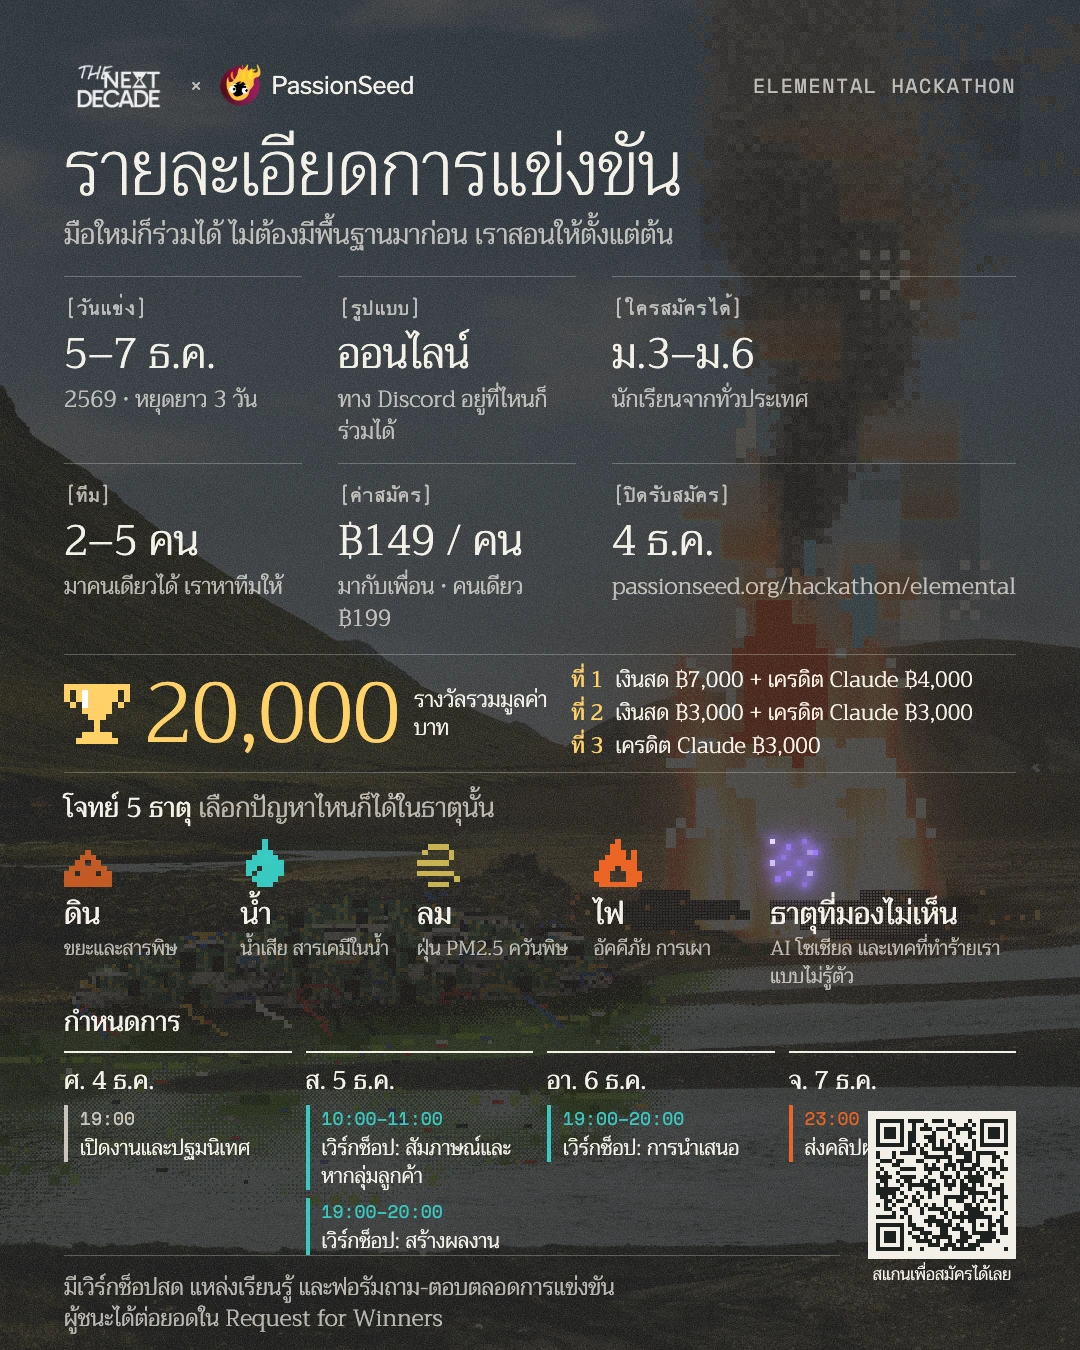
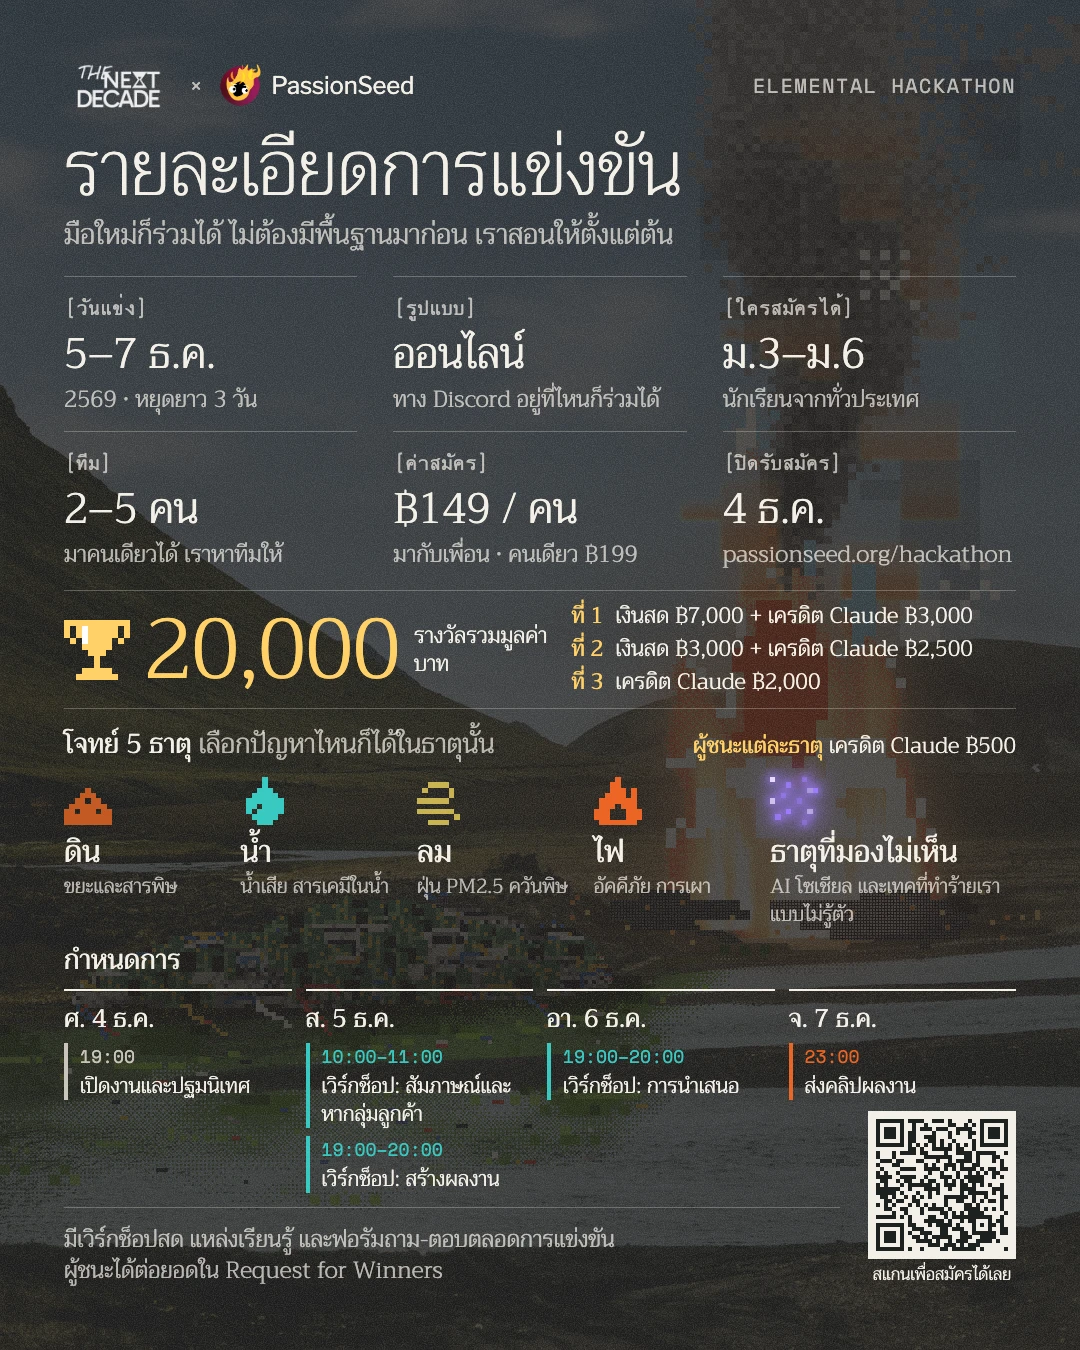
Elemental prizes: less Claude credit for 1st to 3rd, ฿500 for each element's winner
Angpao, 2026-11-24: the Claude credit is 3,000 / 2,500 / 2,000, and the
winner of each track gets 500 of Claude credit. A track is read as one of
the five elements, so the total stays 20,000. Slide 2 and the CSII deck
follow. Slide 2 prints the short link again: the permanent one widened its
column and pushed the schedule under the QR code.

Changed region(s): [[0.0611, 0.2178, 0.9472, 0.9956], [0.0611, 0.7467, 0.2444, 0.8711]]

diff --git a/components/hackathon/poster/elemental/info/ElementalInfoPoster.tsx b/components/hackathon/poster/elemental/info/ElementalInfoPoster.tsx
@@ -114,6 +114,13 @@ function Tag({ children }: { children: ReactNode }) {
   return <p style={{ margin: 0, fontFamily: EL_FONT.mono, fontSize: 20, color: EL.creamSoft }}>[{children}]</p>;
 }
 
+/**
+ * The link as printed on the slide: the short one, which redirects to the
+ * permanent link. The permanent link is too long for its column: it widens
+ * the column, the other facts wrap, and the schedule runs under the QR code.
+ */
+const SHORT_URL = ELEMENTAL.url.replace(/\/elemental$/, "");
+
 /** One fact: a tag, the big value, one quiet line under it. */
 function Fact({ tag, big, below }: { tag: string; big: ReactNode; below: ReactNode }) {
   return (
@@ -176,7 +183,7 @@ export function ElementalInfoPoster({ id = "elemental-info" }: { id?: string }) 
           <Fact tag="ใครสมัครได้" big={ELEMENTAL.gradesTh} below="นักเรียนจากทั่วประเทศ" />
           <Fact tag="ทีม" big={`${ELEMENTAL.teamMin}–${ELEMENTAL.teamMax} คน`} below="มาคนเดียวได้ เราหาทีมให้" />
           <Fact tag="ค่าสมัคร" big={`฿${ELEMENTAL.groupPriceBaht} / คน`} below={`มากับเพื่อน · คนเดียว ฿${ELEMENTAL.priceBaht}`} />
-          <Fact tag="ปิดรับสมัคร" big={formatThaiDate(ELEMENTAL.registrationClosesOn, false)} below={ELEMENTAL.url} />
+          <Fact tag="ปิดรับสมัคร" big={formatThaiDate(ELEMENTAL.registrationClosesOn, false)} below={SHORT_URL} />
         </div>
 
         {/* The prize, as on slide 1 (trophy, the number in yellow), then who gets what. */}
@@ -202,9 +209,15 @@ export function ElementalInfoPoster({ id = "elemental-info" }: { id?: string }) 
 
         {/* The five elements */}
         <div style={{ marginTop: 18 }}>
-          <Head>
-            โจทย์ 5 ธาตุ <span style={{ fontWeight: 300, color: EL.creamSoft }}>เลือกปัญหาไหนก็ได้ในธาตุนั้น</span>
-          </Head>
+          {/* The winner of each element gets a prize too (Angpao, 2026-11-24: "winner in each track get 500 bath claude credit"). It sits here, on the elements' own line: the prize band above has no room for a fourth row. */}
+          <div style={{ display: "flex", alignItems: "baseline", justifyContent: "space-between", gap: 16 }}>
+            <Head>
+              โจทย์ 5 ธาตุ <span style={{ fontWeight: 300, color: EL.creamSoft }}>เลือกปัญหาไหนก็ได้ในธาตุนั้น</span>
+            </Head>
+            <p style={{ margin: 0, fontFamily: EL_FONT.display, fontWeight: 300, fontSize: 22, lineHeight: "34px", whiteSpace: "nowrap" }}>
+              <span style={{ fontWeight: 400, color: HIGHLIGHT }}>ผู้ชนะแต่ละธาตุ</span> เครดิต Claude {baht(ELEMENTAL.elementPrizeCreditBaht)}
+            </p>
+          </div>
           <div style={{ marginTop: 14, display: "grid", gridTemplateColumns: "repeat(4, 1fr) 1.55fr", columnGap: 18 }}>
             {ELEMENTS.map(({ key, color, line }) => (
               <div key={key}>

diff --git a/components/hackathon/poster/elemental/facts.ts b/components/hackathon/poster/elemental/facts.ts
@@ -13,7 +13,10 @@ import { formatThaiDate } from "@/lib/content/shift-cohort";
  *   media and the harms of tech we don't notice (Big, 2026-11-21). It
  *   replaces ธาตุที่ 5 and อีเธอร์.
  * - Prize total: told by Angpao, 2026-11-19. The three prizes: Angpao,
- *   2026-11-21 (company-brain numbers.md).
+ *   2026-11-21 (company-brain numbers.md). Changed by Angpao, 2026-11-24:
+ *   the Claude credit drops to 3,000 / 2,500 / 2,000, and the winner of
+ *   each track gets 500 of Claude credit. A track is read here as one of
+ *   the five elements, which keeps the total at 20,000.
  * - Who can join: M.3 to M.6, from anywhere in Thailand (Angpao, 2026-11-24;
  *   it replaces M.4 to M.6, Big, 2026-11-22; company-brain decisions/log.md).
  * - Online, on Discord; groups of up to 5 (Bunyasit, 2026-11-20).
@@ -33,12 +36,17 @@ export const ELEMENTAL = {
   priceBaht: 199,
   groupPriceBaht: 149,
   prizeTotalBaht: 20000,
-  /** The three prizes: cash and Claude credit, in baht. They add up to prizeTotalBaht. */
+  /**
+   * The three prizes: cash and Claude credit, in baht. With the five element
+   * prizes below they add up to prizeTotalBaht.
+   */
   prizes: [
-    { place: 1, cashBaht: 7000, creditBaht: 4000 },
-    { place: 2, cashBaht: 3000, creditBaht: 3000 },
-    { place: 3, cashBaht: 0, creditBaht: 3000 },
+    { place: 1, cashBaht: 7000, creditBaht: 3000 },
+    { place: 2, cashBaht: 3000, creditBaht: 2500 },
+    { place: 3, cashBaht: 0, creditBaht: 2000 },
   ],
+  /** Claude credit for the winner of each element ("each track"), in baht. */
+  elementPrizeCreditBaht: 500,
   /** Who can join: school years, from anywhere in Thailand. */
   gradesTh: "ม.3–ม.6",
   theme: "Environmental negligence",

diff --git a/components/hackathon/elemental/csii/CsiiDeck.tsx b/components/hackathon/elemental/csii/CsiiDeck.tsx
@@ -46,12 +46,8 @@ const WHY: [IconName, string, string][] = [
   ["sprout", "Little load, little risk", "PassionSeed covers the staff charge and the food, and runs sign-ups, workshops, judging and prizes. If the room doesn't work out, the event still runs online."],
 ];
 
-/** Prizes (Big, 2026-11-22, in the proposal). Cash and Claude credit, in baht. */
-const PRIZES: [string, number, number][] = [
-  ["1st", 7000, 4000],
-  ["2nd", 3000, 3000],
-  ["3rd", 0, 3000],
-];
+/** Prizes (Big, 2026-11-22, in the proposal; the credit changed by Angpao, 2026-11-24). Cash and Claude credit, in baht. */
+const PRIZES: [string, number, number][] = ELEMENTAL.prizes.map((p): [string, number, number] => [["1st", "2nd", "3rd"][p.place - 1], p.cashBaht, p.creditBaht]);
 const PRIZE_TOP = Math.max(...PRIZES.map(([, c, k]) => c + k));
 const baht = (n: number) => `฿${n.toLocaleString("en-US")}`;
 
@@ -325,6 +321,9 @@ export function CsiiDeck() {
               </span>
               <span>Total {prizeTotal()} baht</span>
             </div>
+            <p className="m-0 mt-3 text-[14px]" style={{ color: CREAM_SOFT }}>
+              Plus {baht(ELEMENTAL.elementPrizeCreditBaht)} of Claude credit for the winner of each of the five elements.
+            </p>
             <p className="m-0 mt-8 text-[16px] leading-[1.65]" style={{ fontWeight: 300, color: CREAM_SOFT }}>
               Every team hands in a video by Monday 7 December, 23:00, judged on four things: does it work, evidence from real people, understanding of the problem, and the pitch.
             </p>
